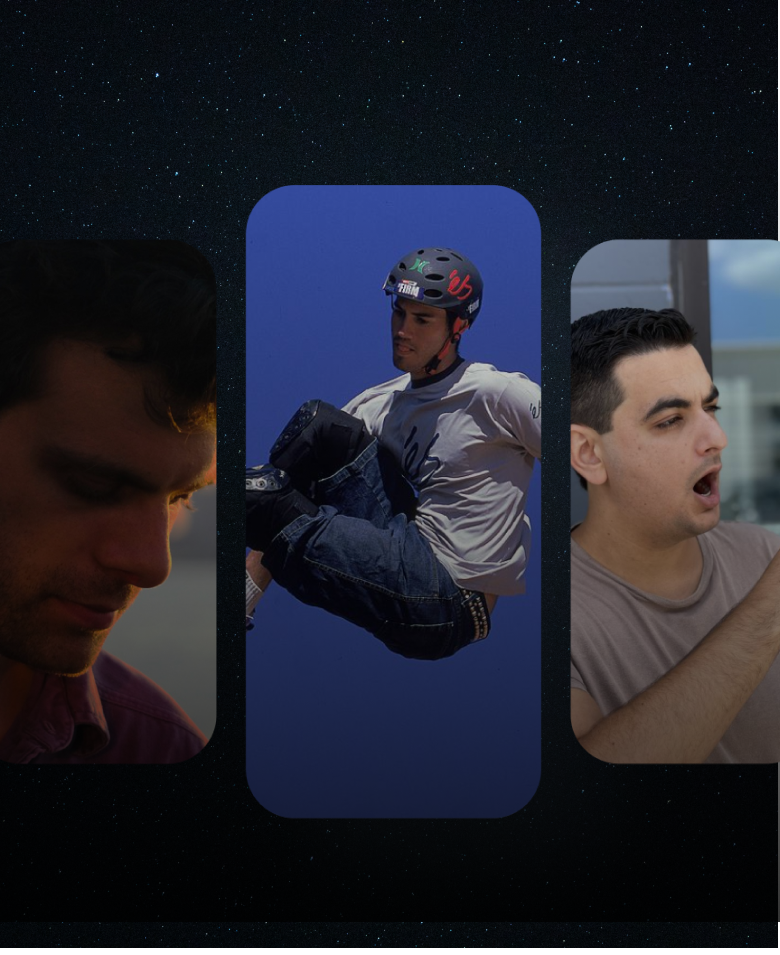
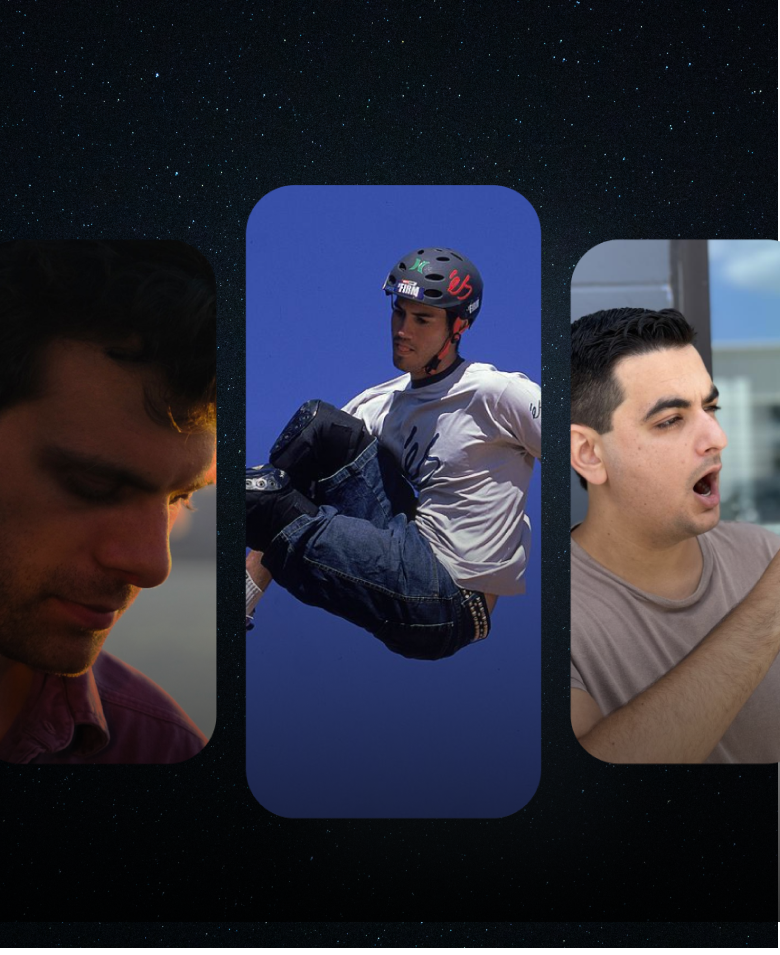
changed overlay gradient

diff --git a/src/pages/Home/Style.tsx b/src/pages/Home/Style.tsx
@@ -10,7 +10,7 @@ export const OpacityGradient = styled.div`
   z-index: 50;
   height: 100%;
   width: 100%;
-  background: linear-gradient(rgba(0, 0, 0, 0), rgba(10, 10, 10, 1));
+  background: linear-gradient(rgba(0, 0, 0, 0), rgba(10, 10, 10, 0.5));
   opacity: 0;
   transition: opacity 1s;
   ${({ theme }) => theme.mediaWidth.upToMedium`
